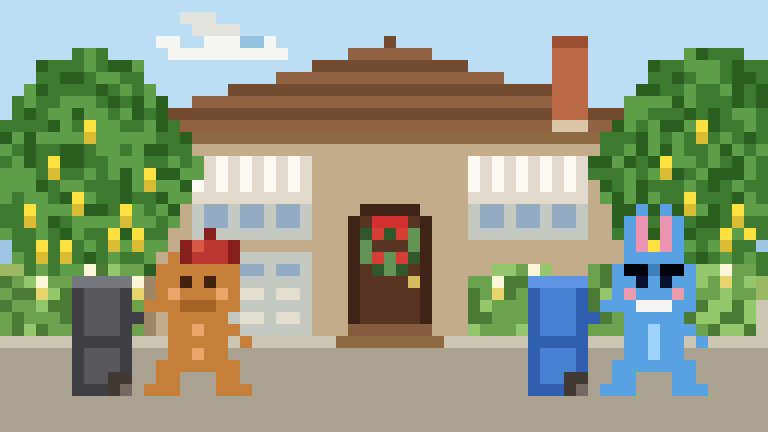
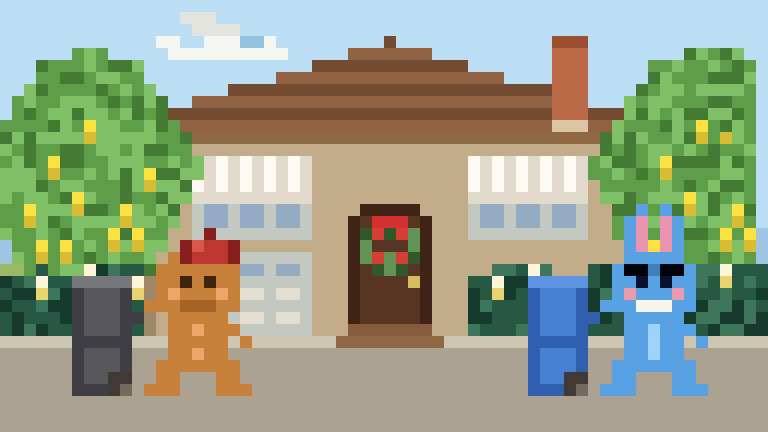
pixel_trash checkpoint: bush deep blue-green, lemon lighter, right edge bush

diff --git a/pixel_trash.py b/pixel_trash.py
@@ -35,9 +35,9 @@ WIN    = (152, 198, 228)
 WIN_D  = ( 75, 125, 165)
 WIN_F  = ( 98, 158, 198)
 WIN_G  = (188, 218, 238)
-BUSH   = (108, 162,  78)
-BUSH_D = ( 75, 122,  52)
-BUSH_L = (148, 198, 108)
+BUSH   = ( 38,  88,  68)
+BUSH_D = ( 22,  58,  45)
+BUSH_L = ( 62, 118,  92)
 FLOWER = (252, 245, 215)
 JAC    = (148, 108, 188)
 JAC_L  = (185, 148, 222)
@@ -163,9 +163,9 @@ for _wx in [17, 18, 20, 21, 23, 24]: sp(_wx, 22, GAR_WIN)
 
 # ── 柠檬树（左 cx=5，右 cx=58）──
 LM_TRUNK = (142, 105,  68)
-LM_LF    = ( 62, 122,  48)
-LM_LFD   = ( 42,  95,  32)
-LM_LFL   = ( 95, 158,  72)
+LM_LF    = ( 95, 158,  72)
+LM_LFD   = ( 68, 122,  52)
+LM_LFL   = (128, 192, 102)
 LM_FR    = (252, 225,  65)
 LM_FRD   = (218, 188,  52)
 
@@ -223,10 +223,10 @@ def draw_lemon_tree(cx, base_y, max_left=None, max_right=None):
             sp(lx, ly+1, LM_FRD)
 
 # 底层柠檬树（更靠外，先画）
-draw_lemon_tree(60, 27, max_left=None, max_right=63)
+draw_lemon_tree(60, 27, max_left=None, max_right=62)
 # 上层柠檬树（靠内，后画，遮住底层）
 draw_lemon_tree(7, 27, max_left=None, max_right=None)
-draw_lemon_tree(58, 27, max_left=None, max_right=63)
+draw_lemon_tree(58, 27, max_left=None, max_right=62)
 # ── 小私人飞机 ──
 PL_BODY = (245, 245, 242); PL_WING = (228, 228, 222); PL_WIN = (148, 195, 225)
 # 机身
@@ -256,6 +256,13 @@ for bx in list(range(0, 12)) + list(range(39, 63)):
         sp(bx, by, BUSH_L if r2 > 0.72 else (BUSH_D if r2 < 0.22 else BUSH))
 for fx, fy in [(3,23),(7,22),(11,23),(41,23),(44,22),(48,23),(52,22),(56,23),(60,22)]:
     sp(fx, fy, FLOWER); sp(fx, fy+1, (232,212,108))
+# x=63 y=22~27 填灌木色（柠檬树边缘修补）
+import random as _rng2
+_r63 = random.Random(63)
+for _y63 in range(22, 28):
+    _c63 = BUSH_D if _r63.random() < 0.22 else (BUSH_L if _r63.random() > 0.72 else BUSH)
+    sp(63, _y63, _c63)
+
 
 
 # ── 左组：黑桶 + 姜饼人 ──
